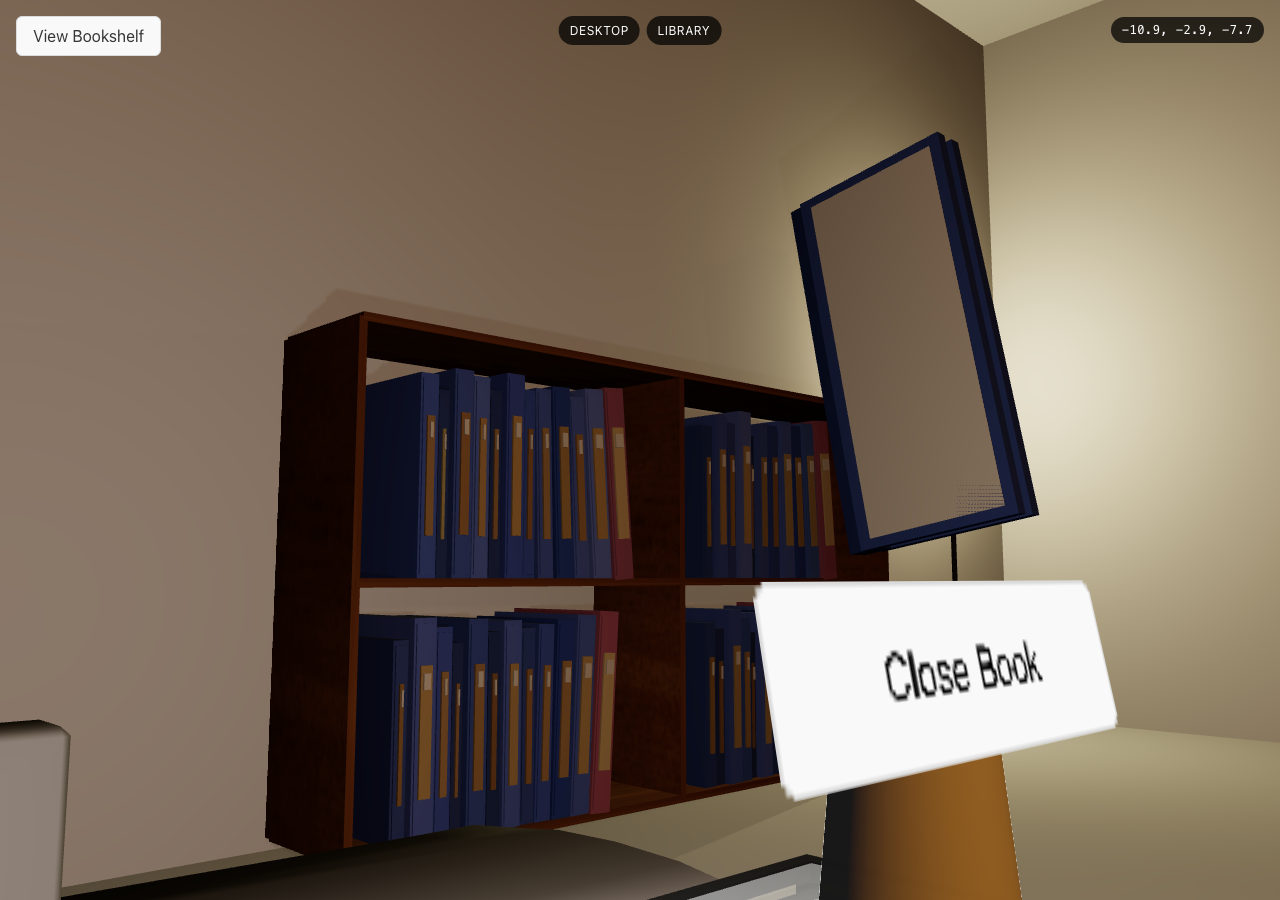
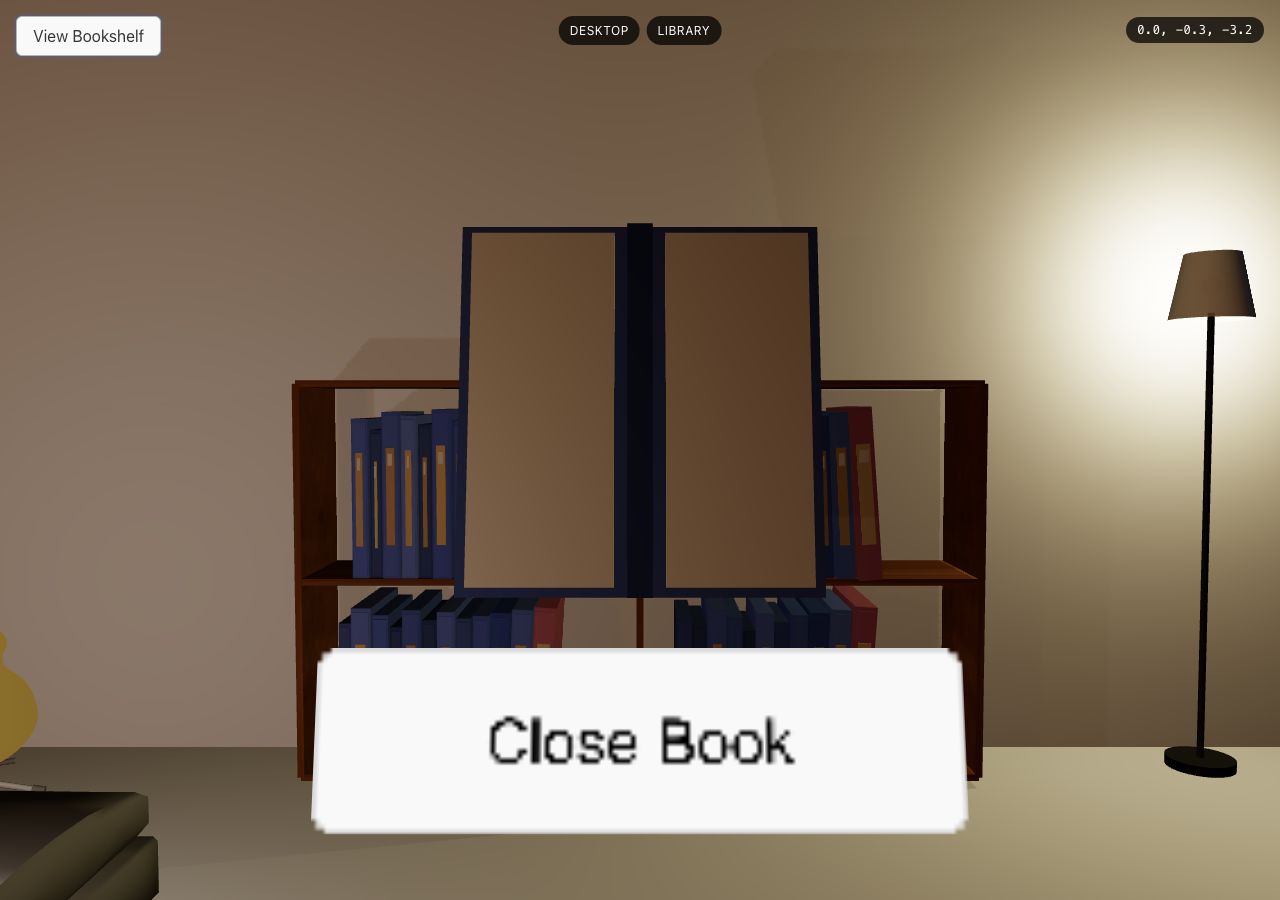
fix: reverse spread direction so book opens to 180° flat
The spread animation was going from flat (0) to closed (π/2). Reversed
it to go from closed (π/2) to flat (0) so the book opens fully.

diff --git a/src/components/Bookshelf/OpenBook.tsx b/src/components/Bookshelf/OpenBook.tsx
@@ -31,7 +31,7 @@ const OpenBook = ({ onClose }: OpenBookProps) => {
 
     progressRef.current = Math.min(progressRef.current + delta * 0.8, 1);
     const easedProgress = 1 - Math.pow(1 - progressRef.current, 3);
-    const spread = MathUtils.lerp(0, Math.PI / 2, easedProgress);
+    const spread = MathUtils.lerp(Math.PI / 2, 0, easedProgress);
 
     groupRef.current.position.lerpVectors(CLOSED_POSITION, OPEN_POSITION, easedProgress);
     const scale = MathUtils.lerp(CLOSED_SCALE, OPEN_SCALE, easedProgress);